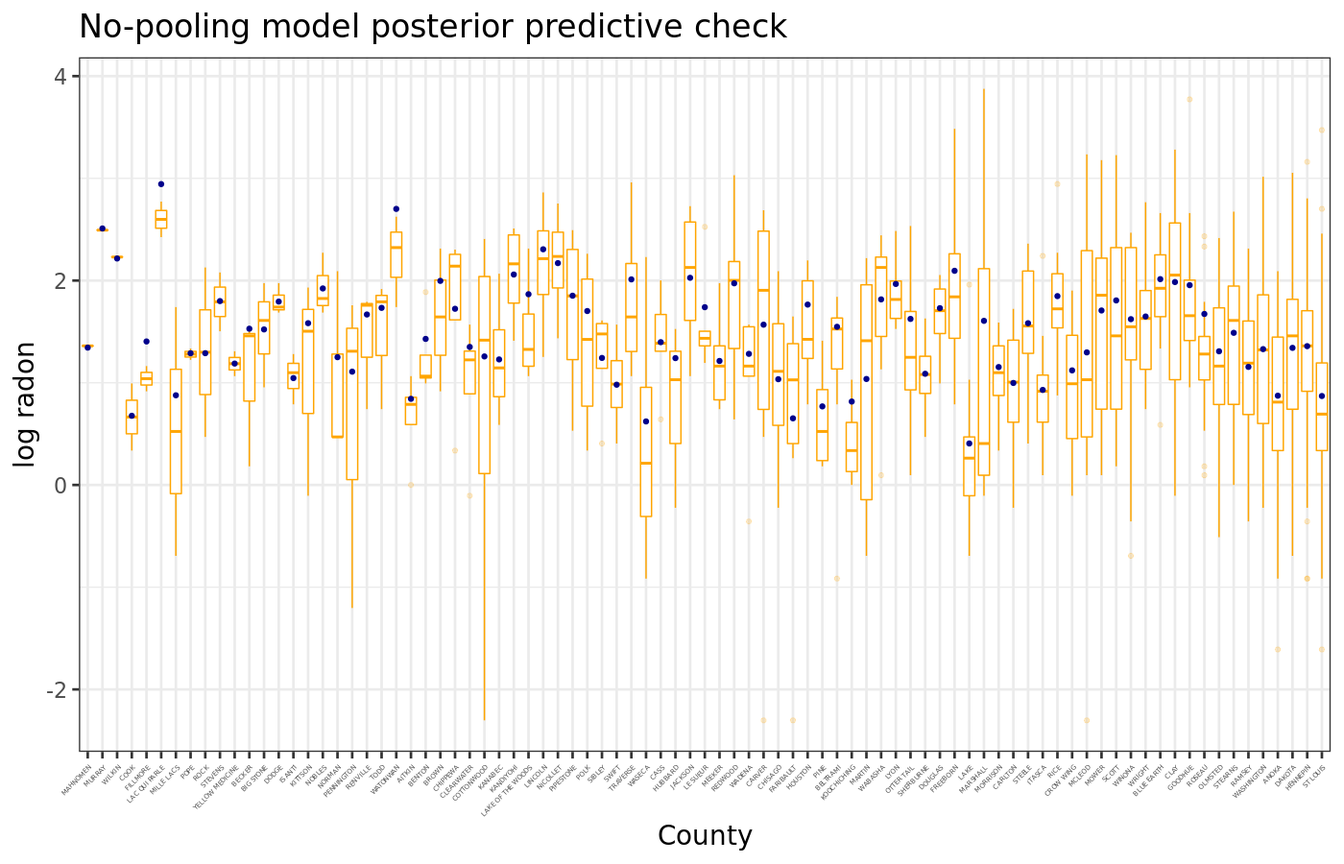
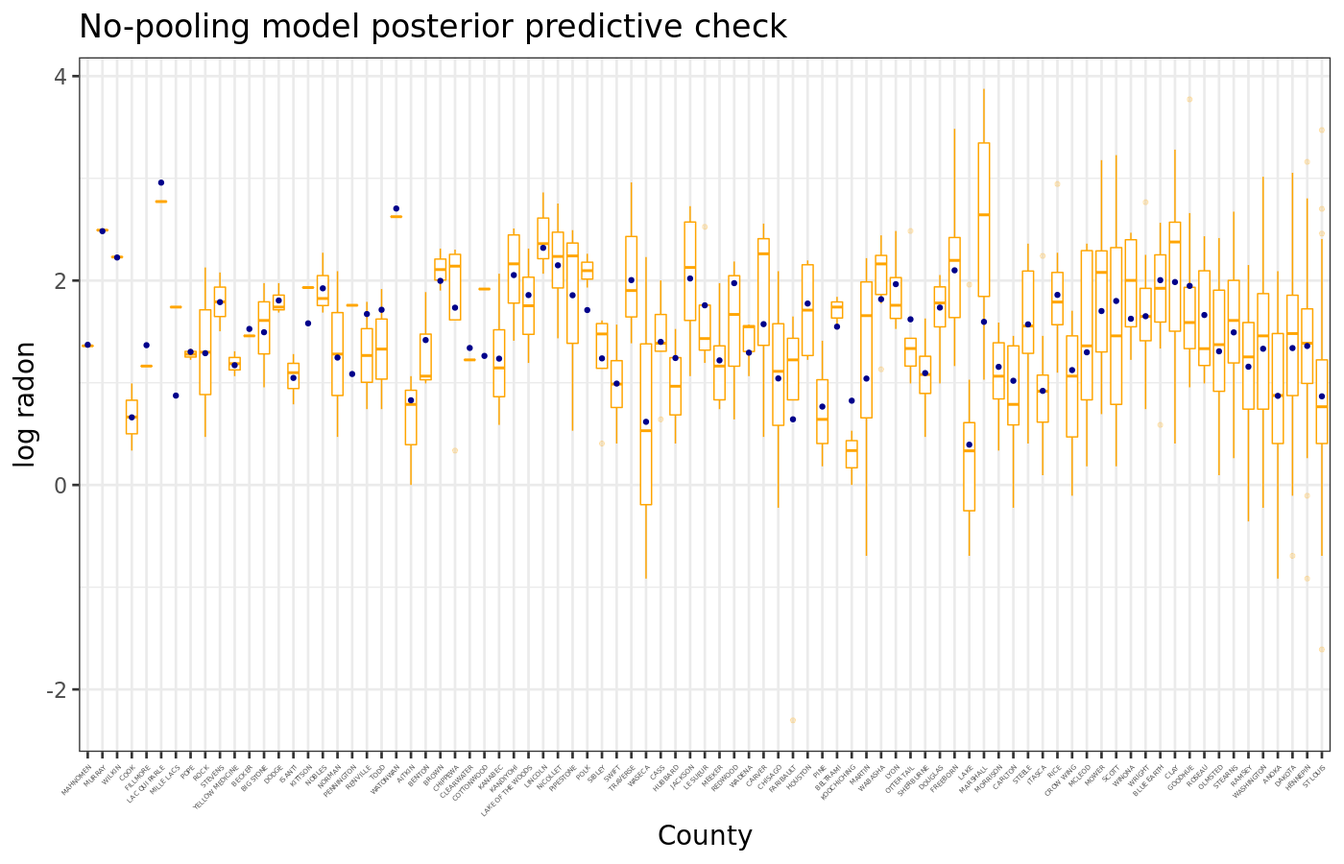
Updated image files for class #18.

diff --git a/static/slides/class_18/index.html b/static/slides/class_18/index.html
@@ -577,9 +577,9 @@ R &amp;\sim \text{Normal}(\mu, \sigma)\\
 <p>Complete Pooling</p>
 <div class="sourceCode" id="cb25"><pre class="sourceCode r seventy max-listing bare"><code class="sourceCode r"><span id="cb25-1"><a href="#cb25-1" aria-hidden="true" tabindex="-1"></a><span class="fu">precis</span>(mdl_comp_pool, <span class="at">digits =</span> <span class="dv">2</span>)</span></code></pre></div>
 <pre class="seventy max-listing"><code>##        mean   sd  5.5% 94.5% n_eff Rhat4
-## a      1.33 0.03  1.28  1.37  1379     1
-## b     -0.61 0.07 -0.73 -0.49  1495     1
-## sigma  0.82 0.02  0.80  0.85  1679     1</code></pre>
+## a      1.33 0.03  1.28  1.38  1658     1
+## b     -0.62 0.07 -0.73 -0.51  1333     1
+## sigma  0.82 0.02  0.79  0.86  1752     1</code></pre>
 </li>
 </ul>
 </div>
@@ -590,28 +590,28 @@ R &amp;\sim \text{Normal}(\mu, \sigma)\\
 <div class="sourceCode" id="cb27"><pre class="sourceCode r seventy max-listing bare"><code class="sourceCode r"><span id="cb27-1"><a href="#cb27-1" aria-hidden="true" tabindex="-1"></a><span class="fu">precis</span>(mdl_no_pool, <span class="at">pars =</span> <span class="fu">c</span>(<span class="fu">paste0</span>(<span class="st">"a["</span>, <span class="dv">1</span><span class="sc">:</span><span class="dv">20</span>, <span class="st">"]"</span>), <span class="st">"b"</span>, <span class="st">"sigma"</span>), </span>
 <span id="cb27-2"><a href="#cb27-2" aria-hidden="true" tabindex="-1"></a>       <span class="at">depth =</span> <span class="dv">2</span>, <span class="at">digits =</span> <span class="dv">2</span>)</span></code></pre></div>
 <pre class="seventy max-listing"><code>##        mean   sd  5.5% 94.5% n_eff Rhat4
-## a[1]   0.85 0.38  0.25  1.47  3987     1
-## a[2]   0.87 0.11  0.70  1.06  5071     1
-## a[3]   1.53 0.43  0.83  2.22  4380     1
-## a[4]   1.55 0.30  1.07  2.03  3820     1
-## a[5]   1.42 0.39  0.80  2.05  5431     1
-## a[6]   1.52 0.43  0.82  2.21  4701     1
-## a[7]   2.01 0.20  1.69  2.33  3853     1
-## a[8]   1.99 0.38  1.34  2.58  3956     1
-## a[9]   1.00 0.24  0.62  1.39  4783     1
-## a[10]  1.57 0.31  1.08  2.04  4250     1
-## a[11]  1.40 0.35  0.85  1.95  4962     1
-## a[12]  1.73 0.38  1.10  2.35  3670     1
-## a[13]  1.03 0.30  0.55  1.52  3986     1
-## a[14]  1.99 0.21  1.64  2.32  3167     1
-## a[15]  1.34 0.38  0.70  1.95  4040     1
-## a[16]  0.68 0.52 -0.16  1.51  3815     1
-## a[17]  1.27 0.37  0.69  1.85  4865     1
-## a[18]  1.12 0.22  0.77  1.46  4405     1
-## a[19]  1.34 0.10  1.18  1.50  3505     1
-## a[20]  1.80 0.43  1.11  2.50  4537     1
-## b     -0.72 0.07 -0.84 -0.60  2445     1
-## sigma  0.76 0.02  0.73  0.79  3000     1</code></pre>
+## a[1]   0.84 0.37  0.25  1.43  5490     1
+## a[2]   0.87 0.10  0.72  1.03  2821     1
+## a[3]   1.53 0.44  0.83  2.22  3897     1
+## a[4]   1.55 0.29  1.09  2.01  3263     1
+## a[5]   1.42 0.38  0.82  2.01  3915     1
+## a[6]   1.50 0.43  0.81  2.21  4191     1
+## a[7]   2.01 0.21  1.66  2.36  3851     1
+## a[8]   1.99 0.38  1.36  2.61  5451     1
+## a[9]   1.01 0.24  0.62  1.41  4232     1
+## a[10]  1.58 0.33  1.04  2.10  3771     1
+## a[11]  1.40 0.35  0.85  1.95  6015     1
+## a[12]  1.73 0.39  1.10  2.34  3279     1
+## a[13]  1.04 0.29  0.58  1.50  3814     1
+## a[14]  1.98 0.21  1.66  2.33  3642     1
+## a[15]  1.34 0.37  0.77  1.94  4177     1
+## a[16]  0.66 0.52 -0.20  1.50  3620     1
+## a[17]  1.27 0.41  0.62  1.93  3772     1
+## a[18]  1.13 0.22  0.77  1.47  3036     1
+## a[19]  1.34 0.09  1.19  1.49  3802     1
+## a[20]  1.80 0.43  1.09  2.46  4360     1
+## b     -0.72 0.07 -0.84 -0.61  2071     1
+## sigma  0.76 0.02  0.73  0.79  3559     1</code></pre>
 </li>
 </ul>
 </div>
@@ -666,20 +666,19 @@ R &amp;\sim \text{Normal}(\mu, \sigma)\\
 </div>
 </div>
 </section><section id="plot-model-results" class="slide level2 eighty"><h2 class="eighty">Plot model results</h2>
-<p><img data-src="assets/fig/unnamed-chunk-1-1.png"></p>
+<p><img data-src="assets/fig/plot-pooled-models-big-1.png"></p>
 </section><section id="posterior-predictive-check" class="slide level2 eighty"><h2 class="eighty">Posterior Predictive Check</h2>
 <div class="sourceCode" id="cb31"><pre class="sourceCode r seventy max-listing bare"><code class="sourceCode r"><span id="cb31-1"><a href="#cb31-1" aria-hidden="true" tabindex="-1"></a>mn_basement_radon <span class="ot">&lt;-</span> mn_radon <span class="sc">%&gt;%</span> <span class="fu">filter</span>(floor <span class="sc">==</span> <span class="dv">0</span>)</span>
 <span id="cb31-2"><a href="#cb31-2" aria-hidden="true" tabindex="-1"></a></span>
 <span id="cb31-3"><a href="#cb31-3" aria-hidden="true" tabindex="-1"></a>np_median <span class="ot">&lt;-</span> np_draws <span class="sc">%&gt;%</span> <span class="fu">filter</span>(.variable <span class="sc">==</span> <span class="st">"a"</span>) <span class="sc">%&gt;%</span></span>
-<span id="cb31-4"><a href="#cb31-4" aria-hidden="true" tabindex="-1"></a>  <span class="fu">group_by</span>(county) <span class="sc">%&gt;%</span> <span class="fu">summarise</span>(<span class="at">log_radon =</span> <span class="fu">median</span>(.value))</span>
-<span id="cb31-5"><a href="#cb31-5" aria-hidden="true" tabindex="-1"></a></span>
-<span id="cb31-6"><a href="#cb31-6" aria-hidden="true" tabindex="-1"></a>np_draws <span class="sc">%&gt;%</span> <span class="fu">filter</span>(.variable <span class="sc">==</span> <span class="st">"a"</span>) <span class="sc">%&gt;%</span> </span>
-<span id="cb31-7"><a href="#cb31-7" aria-hidden="true" tabindex="-1"></a>  <span class="fu">ggplot</span>(<span class="fu">aes</span>(<span class="at">x =</span> county, <span class="at">y =</span> log_radon)) <span class="sc">+</span> </span>
-<span id="cb31-8"><a href="#cb31-8" aria-hidden="true" tabindex="-1"></a>  <span class="fu">geom_boxplot</span>(<span class="at">data =</span> mn_basement_radon, <span class="at">color =</span> <span class="st">"orange"</span>, <span class="at">outlier.alpha =</span> <span class="fl">0.2</span>) <span class="sc">+</span> </span>
-<span id="cb31-9"><a href="#cb31-9" aria-hidden="true" tabindex="-1"></a>  <span class="fu">geom_point</span>(<span class="at">data =</span> np_median, <span class="at">color =</span> <span class="st">"darkblue"</span>) <span class="sc">+</span></span>
-<span id="cb31-10"><a href="#cb31-10" aria-hidden="true" tabindex="-1"></a>  <span class="fu">labs</span>(<span class="at">x =</span> <span class="st">"County"</span>, <span class="at">y =</span> <span class="st">"log radon"</span>, <span class="at">title =</span> <span class="st">"No-pooling model posterior predictive check"</span>) <span class="sc">+</span> </span>
-<span id="cb31-11"><a href="#cb31-11" aria-hidden="true" tabindex="-1"></a>  <span class="fu">theme</span>(<span class="at">axis.text.x =</span> <span class="fu">element_text</span>(<span class="at">angle =</span> <span class="dv">45</span>, <span class="at">hjust =</span> <span class="dv">1</span>, <span class="at">vjust =</span> <span class="dv">1</span>, <span class="at">size =</span> <span class="dv">5</span>))</span></code></pre></div>
-<p><img data-src="assets/fig/posterior-predictive-check-pooled-1.png"></p>
+<span id="cb31-4"><a href="#cb31-4" aria-hidden="true" tabindex="-1"></a>  <span class="fu">group_by</span>(county) <span class="sc">%&gt;%</span> <span class="fu">summarise</span>(<span class="at">log_radon =</span> <span class="fu">median</span>(.value))</span></code></pre></div>
+<div class="sourceCode" id="cb32"><pre class="sourceCode r seventy max-listing bare"><code class="sourceCode r"><span id="cb32-1"><a href="#cb32-1" aria-hidden="true" tabindex="-1"></a>np_draws <span class="sc">%&gt;%</span> <span class="fu">filter</span>(.variable <span class="sc">==</span> <span class="st">"a"</span>) <span class="sc">%&gt;%</span> </span>
+<span id="cb32-2"><a href="#cb32-2" aria-hidden="true" tabindex="-1"></a>  <span class="fu">ggplot</span>(<span class="fu">aes</span>(<span class="at">x =</span> county, <span class="at">y =</span> log_radon)) <span class="sc">+</span> </span>
+<span id="cb32-3"><a href="#cb32-3" aria-hidden="true" tabindex="-1"></a>  <span class="fu">geom_boxplot</span>(<span class="at">data =</span> mn_basement_radon, <span class="at">color =</span> <span class="st">"orange"</span>, <span class="at">outlier.alpha =</span> <span class="fl">0.2</span>) <span class="sc">+</span> </span>
+<span id="cb32-4"><a href="#cb32-4" aria-hidden="true" tabindex="-1"></a>  <span class="fu">geom_point</span>(<span class="at">data =</span> np_median, <span class="at">color =</span> <span class="st">"darkblue"</span>) <span class="sc">+</span></span>
+<span id="cb32-5"><a href="#cb32-5" aria-hidden="true" tabindex="-1"></a>  <span class="fu">labs</span>(<span class="at">x =</span> <span class="st">"County"</span>, <span class="at">y =</span> <span class="st">"log radon"</span>, <span class="at">title =</span> <span class="st">"No-pooling model posterior predictive check"</span>) <span class="sc">+</span> </span>
+<span id="cb32-6"><a href="#cb32-6" aria-hidden="true" tabindex="-1"></a>  <span class="fu">theme</span>(<span class="at">axis.text.x =</span> <span class="fu">element_text</span>(<span class="at">angle =</span> <span class="dv">45</span>, <span class="at">hjust =</span> <span class="dv">1</span>, <span class="at">vjust =</span> <span class="dv">1</span>, <span class="at">size =</span> <span class="dv">5</span>))</span></code></pre></div>
+<p><img data-src="assets/fig/posterior-predictive-check-pooled-graph-1.png"></p>
 </section><section id="posterior-predictive-check-1" class="slide level2 eighty"><h2 class="eighty">Posterior Predictive Check</h2>
 <p><img data-src="assets/fig/posterior-predictive-check-pooled-big-1.png"></p>
 </section></section><section><section id="multilevel-modeling" class="title-slide slide level1 center"><h1 class="center">Multilevel Modeling</h1>
@@ -723,70 +722,70 @@ best balance between the <em>completely pooled</em> and the
 </ul>
 </div>
 <div class="column">
-<div class="sourceCode" id="cb32"><pre class="sourceCode r seventy max-listing bare"><code class="sourceCode r"><span id="cb32-1"><a href="#cb32-1" aria-hidden="true" tabindex="-1"></a>ml_data <span class="ot">&lt;-</span> <span class="fu">select</span>(mn_radon, county_id, log_radon, floor)</span>
-<span id="cb32-2"><a href="#cb32-2" aria-hidden="true" tabindex="-1"></a></span>
-<span id="cb32-3"><a href="#cb32-3" aria-hidden="true" tabindex="-1"></a>mdl_ml <span class="ot">&lt;-</span> <span class="fu">ulam</span>(</span>
-<span id="cb32-4"><a href="#cb32-4" aria-hidden="true" tabindex="-1"></a>  <span class="fu">alist</span>(</span>
-<span id="cb32-5"><a href="#cb32-5" aria-hidden="true" tabindex="-1"></a>    log_radon <span class="sc">~</span> <span class="fu">dnorm</span>(mu, sigma),</span>
-<span id="cb32-6"><a href="#cb32-6" aria-hidden="true" tabindex="-1"></a>    mu <span class="ot">&lt;-</span> a[county_id] <span class="sc">+</span> b <span class="sc">*</span> floor,</span>
-<span id="cb32-7"><a href="#cb32-7" aria-hidden="true" tabindex="-1"></a>    a[county_id] <span class="sc">~</span> <span class="fu">dnorm</span>(a_bar, sig_a),</span>
-<span id="cb32-8"><a href="#cb32-8" aria-hidden="true" tabindex="-1"></a>    b <span class="sc">~</span> <span class="fu">dnorm</span>(<span class="dv">0</span>, <span class="dv">10</span>),</span>
-<span id="cb32-9"><a href="#cb32-9" aria-hidden="true" tabindex="-1"></a>    sigma <span class="sc">~</span> <span class="fu">dexp</span>(<span class="dv">1</span>),</span>
-<span id="cb32-10"><a href="#cb32-10" aria-hidden="true" tabindex="-1"></a>    a_bar <span class="sc">~</span> <span class="fu">dnorm</span>(<span class="dv">0</span>, <span class="dv">10</span>),</span>
-<span id="cb32-11"><a href="#cb32-11" aria-hidden="true" tabindex="-1"></a>    sig_a <span class="sc">~</span> <span class="fu">dexp</span>(<span class="dv">1</span>)</span>
-<span id="cb32-12"><a href="#cb32-12" aria-hidden="true" tabindex="-1"></a>  ), <span class="at">data =</span> ml_data, <span class="at">chains =</span> <span class="dv">4</span>, <span class="at">cores =</span> <span class="dv">4</span>, <span class="at">log_lik =</span> <span class="cn">TRUE</span>)</span></code></pre></div>
+<div class="sourceCode" id="cb33"><pre class="sourceCode r seventy max-listing bare"><code class="sourceCode r"><span id="cb33-1"><a href="#cb33-1" aria-hidden="true" tabindex="-1"></a>ml_data <span class="ot">&lt;-</span> <span class="fu">select</span>(mn_radon, county_id, log_radon, floor)</span>
+<span id="cb33-2"><a href="#cb33-2" aria-hidden="true" tabindex="-1"></a></span>
+<span id="cb33-3"><a href="#cb33-3" aria-hidden="true" tabindex="-1"></a>mdl_ml <span class="ot">&lt;-</span> <span class="fu">ulam</span>(</span>
+<span id="cb33-4"><a href="#cb33-4" aria-hidden="true" tabindex="-1"></a>  <span class="fu">alist</span>(</span>
+<span id="cb33-5"><a href="#cb33-5" aria-hidden="true" tabindex="-1"></a>    log_radon <span class="sc">~</span> <span class="fu">dnorm</span>(mu, sigma),</span>
+<span id="cb33-6"><a href="#cb33-6" aria-hidden="true" tabindex="-1"></a>    mu <span class="ot">&lt;-</span> a[county_id] <span class="sc">+</span> b <span class="sc">*</span> floor,</span>
+<span id="cb33-7"><a href="#cb33-7" aria-hidden="true" tabindex="-1"></a>    a[county_id] <span class="sc">~</span> <span class="fu">dnorm</span>(a_bar, sig_a),</span>
+<span id="cb33-8"><a href="#cb33-8" aria-hidden="true" tabindex="-1"></a>    b <span class="sc">~</span> <span class="fu">dnorm</span>(<span class="dv">0</span>, <span class="dv">10</span>),</span>
+<span id="cb33-9"><a href="#cb33-9" aria-hidden="true" tabindex="-1"></a>    sigma <span class="sc">~</span> <span class="fu">dexp</span>(<span class="dv">1</span>),</span>
+<span id="cb33-10"><a href="#cb33-10" aria-hidden="true" tabindex="-1"></a>    a_bar <span class="sc">~</span> <span class="fu">dnorm</span>(<span class="dv">0</span>, <span class="dv">10</span>),</span>
+<span id="cb33-11"><a href="#cb33-11" aria-hidden="true" tabindex="-1"></a>    sig_a <span class="sc">~</span> <span class="fu">dexp</span>(<span class="dv">1</span>)</span>
+<span id="cb33-12"><a href="#cb33-12" aria-hidden="true" tabindex="-1"></a>  ), <span class="at">data =</span> ml_data, <span class="at">chains =</span> <span class="dv">4</span>, <span class="at">cores =</span> <span class="dv">4</span>, <span class="at">log_lik =</span> <span class="cn">TRUE</span>)</span></code></pre></div>
 <div class="fragment">
-<div class="sourceCode" id="cb33"><pre class="sourceCode r seventy max-listing bare"><code class="sourceCode r"><span id="cb33-1"><a href="#cb33-1" aria-hidden="true" tabindex="-1"></a><span class="fu">precis</span>(mdl_ml, <span class="at">digits =</span> <span class="dv">2</span>, <span class="at">depth =</span> <span class="dv">2</span>,</span>
-<span id="cb33-2"><a href="#cb33-2" aria-hidden="true" tabindex="-1"></a>       <span class="at">pars =</span> <span class="fu">c</span>(<span class="st">"a_bar"</span>, <span class="st">"sig_a"</span>, <span class="st">"b"</span>, <span class="st">"sigma"</span>, <span class="fu">paste0</span>(<span class="st">"a["</span>, <span class="dv">1</span><span class="sc">:</span><span class="dv">5</span>, <span class="st">"]"</span>)))</span></code></pre></div>
+<div class="sourceCode" id="cb34"><pre class="sourceCode r seventy max-listing bare"><code class="sourceCode r"><span id="cb34-1"><a href="#cb34-1" aria-hidden="true" tabindex="-1"></a><span class="fu">precis</span>(mdl_ml, <span class="at">digits =</span> <span class="dv">2</span>, <span class="at">depth =</span> <span class="dv">2</span>,</span>
+<span id="cb34-2"><a href="#cb34-2" aria-hidden="true" tabindex="-1"></a>       <span class="at">pars =</span> <span class="fu">c</span>(<span class="st">"a_bar"</span>, <span class="st">"sig_a"</span>, <span class="st">"b"</span>, <span class="st">"sigma"</span>, <span class="fu">paste0</span>(<span class="st">"a["</span>, <span class="dv">1</span><span class="sc">:</span><span class="dv">5</span>, <span class="st">"]"</span>)))</span></code></pre></div>
 <pre class="seventy max-listing"><code>##        mean   sd  5.5% 94.5% n_eff Rhat4
-## a_bar  1.46 0.05  1.38  1.55   990     1
-## sig_a  0.33 0.04  0.27  0.41   595     1
-## b     -0.69 0.07 -0.81 -0.58  1525     1
-## sigma  0.76 0.02  0.73  0.79  2563     1
-## a[1]   1.20 0.25  0.78  1.59  2616     1
-## a[2]   0.93 0.10  0.77  1.08  2685     1
-## a[3]   1.48 0.26  1.07  1.90  2657     1
-## a[4]   1.50 0.22  1.15  1.85  2387     1
-## a[5]   1.45 0.25  1.07  1.83  3307     1</code></pre>
+## a_bar  1.46 0.05  1.38  1.54  1027     1
+## sig_a  0.33 0.05  0.26  0.41   542     1
+## b     -0.69 0.07 -0.81 -0.59  1471     1
+## sigma  0.76 0.02  0.73  0.79  2422     1
+## a[1]   1.19 0.25  0.77  1.57  2919     1
+## a[2]   0.93 0.10  0.77  1.08  2277     1
+## a[3]   1.48 0.25  1.07  1.87  2727     1
+## a[4]   1.50 0.23  1.12  1.88  3140     1
+## a[5]   1.45 0.25  1.07  1.84  2613     1</code></pre>
 </div>
 </div>
 </div>
 </section><section id="analyzing-multilevel-model" class="slide level2 eighty"><h2 class="eighty">Analyzing Multilevel Model</h2>
-<div class="sourceCode" id="cb35"><pre class="sourceCode r seventy max-listing bare"><code class="sourceCode r"><span id="cb35-1"><a href="#cb35-1" aria-hidden="true" tabindex="-1"></a>ml_draws <span class="ot">&lt;-</span> <span class="fu">gather_draws</span>(mdl_ml, a[county_id]) <span class="sc">%&gt;%</span></span>
-<span id="cb35-2"><a href="#cb35-2" aria-hidden="true" tabindex="-1"></a>  <span class="fu">left_join</span>(<span class="fu">select</span>(mn_counties, county_id, county), <span class="at">by =</span> <span class="st">"county_id"</span>) <span class="sc">%&gt;%</span></span>
-<span id="cb35-3"><a href="#cb35-3" aria-hidden="true" tabindex="-1"></a>  <span class="fu">mutate</span>(<span class="at">pooling =</span> <span class="st">"Partial"</span>)</span>
-<span id="cb35-4"><a href="#cb35-4" aria-hidden="true" tabindex="-1"></a></span>
-<span id="cb35-5"><a href="#cb35-5" aria-hidden="true" tabindex="-1"></a>ml_sum <span class="ot">&lt;-</span> ml_draws <span class="sc">%&gt;%</span> <span class="fu">group_by</span>(county, county_id, pooling) <span class="sc">%&gt;%</span></span>
-<span id="cb35-6"><a href="#cb35-6" aria-hidden="true" tabindex="-1"></a>  <span class="fu">summarize</span>(<span class="at">mean =</span> <span class="fu">mean</span>(.value), <span class="at">PI =</span> <span class="fu">list</span>(<span class="fu">set_names</span>(<span class="fu">PI</span>(.value), <span class="fu">c</span>(<span class="st">"lower"</span>, <span class="st">"upper"</span>)))) <span class="sc">%&gt;%</span></span>
-<span id="cb35-7"><a href="#cb35-7" aria-hidden="true" tabindex="-1"></a>  <span class="fu">unnest_wider</span>(PI)</span></code></pre></div>
-<div class="sourceCode" id="cb36"><pre class="sourceCode r seventy max-listing bare"><code class="sourceCode r"><span id="cb36-1"><a href="#cb36-1" aria-hidden="true" tabindex="-1"></a><span class="fu">ggplot</span>(ml_sum, <span class="fu">aes</span>(<span class="at">x =</span> county, <span class="at">y =</span> mean, <span class="at">ymin =</span> lower, <span class="at">ymax =</span> upper)) <span class="sc">+</span></span>
-<span id="cb36-2"><a href="#cb36-2" aria-hidden="true" tabindex="-1"></a>  <span class="fu">geom_pointrange</span>(<span class="at">color =</span> <span class="st">"darkblue"</span>) <span class="sc">+</span></span>
-<span id="cb36-3"><a href="#cb36-3" aria-hidden="true" tabindex="-1"></a>  <span class="fu">labs</span>(<span class="at">x =</span> <span class="st">"County"</span>, <span class="at">y =</span> <span class="st">"89% confidence interval"</span>, <span class="at">title =</span> ) <span class="sc">+</span></span>
-<span id="cb36-4"><a href="#cb36-4" aria-hidden="true" tabindex="-1"></a>  <span class="fu">theme</span>(<span class="at">axis.text.x =</span> <span class="fu">element_text</span>(<span class="at">size =</span> <span class="dv">8</span>, <span class="at">angle =</span> <span class="dv">45</span>, <span class="at">hjust =</span> <span class="dv">1</span>, <span class="at">vjust =</span> <span class="dv">1</span>))</span></code></pre></div>
+<div class="sourceCode" id="cb36"><pre class="sourceCode r seventy max-listing bare"><code class="sourceCode r"><span id="cb36-1"><a href="#cb36-1" aria-hidden="true" tabindex="-1"></a>ml_draws <span class="ot">&lt;-</span> <span class="fu">gather_draws</span>(mdl_ml, a[county_id]) <span class="sc">%&gt;%</span></span>
+<span id="cb36-2"><a href="#cb36-2" aria-hidden="true" tabindex="-1"></a>  <span class="fu">left_join</span>(<span class="fu">select</span>(mn_counties, county_id, county), <span class="at">by =</span> <span class="st">"county_id"</span>) <span class="sc">%&gt;%</span></span>
+<span id="cb36-3"><a href="#cb36-3" aria-hidden="true" tabindex="-1"></a>  <span class="fu">mutate</span>(<span class="at">pooling =</span> <span class="st">"Partial"</span>)</span>
+<span id="cb36-4"><a href="#cb36-4" aria-hidden="true" tabindex="-1"></a></span>
+<span id="cb36-5"><a href="#cb36-5" aria-hidden="true" tabindex="-1"></a>ml_sum <span class="ot">&lt;-</span> ml_draws <span class="sc">%&gt;%</span> <span class="fu">group_by</span>(county, county_id, pooling) <span class="sc">%&gt;%</span></span>
+<span id="cb36-6"><a href="#cb36-6" aria-hidden="true" tabindex="-1"></a>  <span class="fu">summarize</span>(<span class="at">mean =</span> <span class="fu">mean</span>(.value), <span class="at">PI =</span> <span class="fu">list</span>(<span class="fu">set_names</span>(<span class="fu">PI</span>(.value), <span class="fu">c</span>(<span class="st">"lower"</span>, <span class="st">"upper"</span>)))) <span class="sc">%&gt;%</span></span>
+<span id="cb36-7"><a href="#cb36-7" aria-hidden="true" tabindex="-1"></a>  <span class="fu">unnest_wider</span>(PI)</span></code></pre></div>
+<div class="sourceCode" id="cb37"><pre class="sourceCode r seventy max-listing bare"><code class="sourceCode r"><span id="cb37-1"><a href="#cb37-1" aria-hidden="true" tabindex="-1"></a><span class="fu">ggplot</span>(ml_sum, <span class="fu">aes</span>(<span class="at">x =</span> county, <span class="at">y =</span> mean, <span class="at">ymin =</span> lower, <span class="at">ymax =</span> upper)) <span class="sc">+</span></span>
+<span id="cb37-2"><a href="#cb37-2" aria-hidden="true" tabindex="-1"></a>  <span class="fu">geom_pointrange</span>(<span class="at">color =</span> <span class="st">"darkblue"</span>) <span class="sc">+</span></span>
+<span id="cb37-3"><a href="#cb37-3" aria-hidden="true" tabindex="-1"></a>  <span class="fu">labs</span>(<span class="at">x =</span> <span class="st">"County"</span>, <span class="at">y =</span> <span class="st">"89% confidence interval"</span>, <span class="at">title =</span> ) <span class="sc">+</span></span>
+<span id="cb37-4"><a href="#cb37-4" aria-hidden="true" tabindex="-1"></a>  <span class="fu">theme</span>(<span class="at">axis.text.x =</span> <span class="fu">element_text</span>(<span class="at">size =</span> <span class="dv">8</span>, <span class="at">angle =</span> <span class="dv">45</span>, <span class="at">hjust =</span> <span class="dv">1</span>, <span class="at">vjust =</span> <span class="dv">1</span>))</span></code></pre></div>
 <p><img data-src="assets/fig/plot_ml_draws-1.png"></p>
 </section><section id="analyzing-multilevel-model-1" class="slide level2 eighty"><h2 class="eighty">Analyzing Multilevel Model</h2>
-<p><img data-src="assets/fig/unnamed-chunk-2-1.png"></p>
+<p><img data-src="assets/fig/plot-ml-draws-big-1.png"></p>
 </section><section id="comparing-models" class="slide level2 eighty"><h2 class="eighty">Comparing Models</h2>
-<div class="sourceCode" id="cb37"><pre class="sourceCode r seventy max-listing bare"><code class="sourceCode r"><span id="cb37-1"><a href="#cb37-1" aria-hidden="true" tabindex="-1"></a><span class="fu">ggplot</span>(ml_sum, <span class="fu">aes</span>(<span class="at">x =</span> county, <span class="at">y =</span> mean, <span class="at">ymin =</span> lower, <span class="at">ymax =</span> upper, <span class="at">color =</span> pooling)) <span class="sc">+</span></span>
-<span id="cb37-2"><a href="#cb37-2" aria-hidden="true" tabindex="-1"></a>  <span class="fu">geom_pointrange</span>(<span class="at">data =</span> np_sum, <span class="at">alpha =</span> <span class="fl">0.7</span>) <span class="sc">+</span></span>
-<span id="cb37-3"><a href="#cb37-3" aria-hidden="true" tabindex="-1"></a>  <span class="fu">geom_pointrange</span>(<span class="at">alpha =</span> <span class="fl">0.7</span>) <span class="sc">+</span></span>
-<span id="cb37-4"><a href="#cb37-4" aria-hidden="true" tabindex="-1"></a>  <span class="fu">scale_color_manual</span>(<span class="at">values =</span> <span class="fu">c</span>(<span class="at">Partial =</span> <span class="st">"darkblue"</span>, <span class="at">None =</span> <span class="st">"orange"</span>)) <span class="sc">+</span></span>
-<span id="cb37-5"><a href="#cb37-5" aria-hidden="true" tabindex="-1"></a>  <span class="fu">labs</span>(<span class="at">x =</span> <span class="st">"County"</span>, <span class="at">y =</span> <span class="st">"89% confidence interval"</span>, <span class="at">title =</span> ) <span class="sc">+</span></span>
-<span id="cb37-6"><a href="#cb37-6" aria-hidden="true" tabindex="-1"></a>  <span class="fu">theme</span>(<span class="at">axis.text.x =</span> <span class="fu">element_text</span>(<span class="at">size =</span> <span class="dv">8</span>, <span class="at">angle =</span> <span class="dv">45</span>, <span class="at">hjust =</span> <span class="dv">1</span>, <span class="at">vjust =</span> <span class="dv">1</span>))</span></code></pre></div>
+<div class="sourceCode" id="cb38"><pre class="sourceCode r seventy max-listing bare"><code class="sourceCode r"><span id="cb38-1"><a href="#cb38-1" aria-hidden="true" tabindex="-1"></a><span class="fu">ggplot</span>(ml_sum, <span class="fu">aes</span>(<span class="at">x =</span> county, <span class="at">y =</span> mean, <span class="at">ymin =</span> lower, <span class="at">ymax =</span> upper, <span class="at">color =</span> pooling)) <span class="sc">+</span></span>
+<span id="cb38-2"><a href="#cb38-2" aria-hidden="true" tabindex="-1"></a>  <span class="fu">geom_pointrange</span>(<span class="at">data =</span> np_sum, <span class="at">alpha =</span> <span class="fl">0.7</span>) <span class="sc">+</span></span>
+<span id="cb38-3"><a href="#cb38-3" aria-hidden="true" tabindex="-1"></a>  <span class="fu">geom_pointrange</span>(<span class="at">alpha =</span> <span class="fl">0.7</span>) <span class="sc">+</span></span>
+<span id="cb38-4"><a href="#cb38-4" aria-hidden="true" tabindex="-1"></a>  <span class="fu">scale_color_manual</span>(<span class="at">values =</span> <span class="fu">c</span>(<span class="at">Partial =</span> <span class="st">"darkblue"</span>, <span class="at">None =</span> <span class="st">"orange"</span>)) <span class="sc">+</span></span>
+<span id="cb38-5"><a href="#cb38-5" aria-hidden="true" tabindex="-1"></a>  <span class="fu">labs</span>(<span class="at">x =</span> <span class="st">"County"</span>, <span class="at">y =</span> <span class="st">"89% confidence interval"</span>, <span class="at">title =</span> ) <span class="sc">+</span></span>
+<span id="cb38-6"><a href="#cb38-6" aria-hidden="true" tabindex="-1"></a>  <span class="fu">theme</span>(<span class="at">axis.text.x =</span> <span class="fu">element_text</span>(<span class="at">size =</span> <span class="dv">8</span>, <span class="at">angle =</span> <span class="dv">45</span>, <span class="at">hjust =</span> <span class="dv">1</span>, <span class="at">vjust =</span> <span class="dv">1</span>))</span></code></pre></div>
 <p><img data-src="assets/fig/plot_comparison-1.png"></p>
 </section><section id="posterior-predictive-check-2" class="slide level2 eighty"><h2 class="eighty">Posterior Predictive Check</h2>
-<div class="sourceCode" id="cb38"><pre class="sourceCode r seventy max-listing bare"><code class="sourceCode r"><span id="cb38-1"><a href="#cb38-1" aria-hidden="true" tabindex="-1"></a>ml_median <span class="ot">&lt;-</span> ml_draws <span class="sc">%&gt;%</span> <span class="fu">filter</span>(.variable <span class="sc">==</span> <span class="st">"a"</span>) <span class="sc">%&gt;%</span></span>
-<span id="cb38-2"><a href="#cb38-2" aria-hidden="true" tabindex="-1"></a>  <span class="fu">group_by</span>(county) <span class="sc">%&gt;%</span> <span class="fu">summarise</span>(<span class="at">log_radon =</span> <span class="fu">median</span>(.value))</span>
-<span id="cb38-3"><a href="#cb38-3" aria-hidden="true" tabindex="-1"></a></span>
-<span id="cb38-4"><a href="#cb38-4" aria-hidden="true" tabindex="-1"></a>ml_draws <span class="sc">%&gt;%</span> <span class="fu">filter</span>(.variable <span class="sc">==</span> <span class="st">"a"</span>) <span class="sc">%&gt;%</span> </span>
-<span id="cb38-5"><a href="#cb38-5" aria-hidden="true" tabindex="-1"></a>  <span class="fu">ggplot</span>(<span class="fu">aes</span>(<span class="at">x =</span> county, <span class="at">y =</span> log_radon)) <span class="sc">+</span> </span>
-<span id="cb38-6"><a href="#cb38-6" aria-hidden="true" tabindex="-1"></a>  <span class="fu">geom_boxplot</span>(<span class="at">data =</span> mn_basement_radon, <span class="at">color =</span> <span class="st">"orange"</span>, <span class="at">outlier.alpha =</span> <span class="fl">0.2</span>) <span class="sc">+</span> </span>
-<span id="cb38-7"><a href="#cb38-7" aria-hidden="true" tabindex="-1"></a>  <span class="fu">geom_point</span>(<span class="at">data =</span> ml_median, <span class="at">color =</span> <span class="st">"darkblue"</span>) <span class="sc">+</span></span>
-<span id="cb38-8"><a href="#cb38-8" aria-hidden="true" tabindex="-1"></a>  <span class="fu">labs</span>(<span class="at">x =</span> <span class="st">"County"</span>, <span class="at">y =</span> <span class="st">"log radon"</span>, <span class="at">title =</span> <span class="st">"Partial-pooling model posterior predictive check"</span>) <span class="sc">+</span> </span>
-<span id="cb38-9"><a href="#cb38-9" aria-hidden="true" tabindex="-1"></a>  <span class="fu">theme</span>(<span class="at">axis.text.x =</span> <span class="fu">element_text</span>(<span class="at">angle =</span> <span class="dv">45</span>, <span class="at">hjust =</span> <span class="dv">1</span>, <span class="at">vjust =</span> <span class="dv">1</span>, <span class="at">size =</span> <span class="dv">5</span>))</span></code></pre></div>
+<div class="sourceCode" id="cb39"><pre class="sourceCode r seventy max-listing bare"><code class="sourceCode r"><span id="cb39-1"><a href="#cb39-1" aria-hidden="true" tabindex="-1"></a>ml_median <span class="ot">&lt;-</span> ml_draws <span class="sc">%&gt;%</span> <span class="fu">filter</span>(.variable <span class="sc">==</span> <span class="st">"a"</span>) <span class="sc">%&gt;%</span></span>
+<span id="cb39-2"><a href="#cb39-2" aria-hidden="true" tabindex="-1"></a>  <span class="fu">group_by</span>(county) <span class="sc">%&gt;%</span> <span class="fu">summarise</span>(<span class="at">log_radon =</span> <span class="fu">median</span>(.value))</span>
+<span id="cb39-3"><a href="#cb39-3" aria-hidden="true" tabindex="-1"></a></span>
+<span id="cb39-4"><a href="#cb39-4" aria-hidden="true" tabindex="-1"></a>ml_draws <span class="sc">%&gt;%</span> <span class="fu">filter</span>(.variable <span class="sc">==</span> <span class="st">"a"</span>) <span class="sc">%&gt;%</span> </span>
+<span id="cb39-5"><a href="#cb39-5" aria-hidden="true" tabindex="-1"></a>  <span class="fu">ggplot</span>(<span class="fu">aes</span>(<span class="at">x =</span> county, <span class="at">y =</span> log_radon)) <span class="sc">+</span> </span>
+<span id="cb39-6"><a href="#cb39-6" aria-hidden="true" tabindex="-1"></a>  <span class="fu">geom_boxplot</span>(<span class="at">data =</span> mn_basement_radon, <span class="at">color =</span> <span class="st">"orange"</span>, <span class="at">outlier.alpha =</span> <span class="fl">0.2</span>) <span class="sc">+</span> </span>
+<span id="cb39-7"><a href="#cb39-7" aria-hidden="true" tabindex="-1"></a>  <span class="fu">geom_point</span>(<span class="at">data =</span> ml_median, <span class="at">color =</span> <span class="st">"darkblue"</span>) <span class="sc">+</span></span>
+<span id="cb39-8"><a href="#cb39-8" aria-hidden="true" tabindex="-1"></a>  <span class="fu">labs</span>(<span class="at">x =</span> <span class="st">"County"</span>, <span class="at">y =</span> <span class="st">"log radon"</span>, <span class="at">title =</span> <span class="st">"Partial-pooling model posterior predictive check"</span>) <span class="sc">+</span> </span>
+<span id="cb39-9"><a href="#cb39-9" aria-hidden="true" tabindex="-1"></a>  <span class="fu">theme</span>(<span class="at">axis.text.x =</span> <span class="fu">element_text</span>(<span class="at">angle =</span> <span class="dv">45</span>, <span class="at">hjust =</span> <span class="dv">1</span>, <span class="at">vjust =</span> <span class="dv">1</span>, <span class="at">size =</span> <span class="dv">5</span>))</span></code></pre></div>
 <p><img data-src="assets/fig/posterior-predictive-check-ml-1.png"></p>
 </section><section id="posterior-predictive-check-3" class="slide level2 eighty"><h2 class="eighty">Posterior Predictive Check</h2>
-<p><img data-src="assets/fig/unnamed-chunk-3-1.png"></p>
+<p><img data-src="assets/fig/posterior-predictive-check-ml-big-1.png"></p>
 </section></section>
 </div>
   </div>
